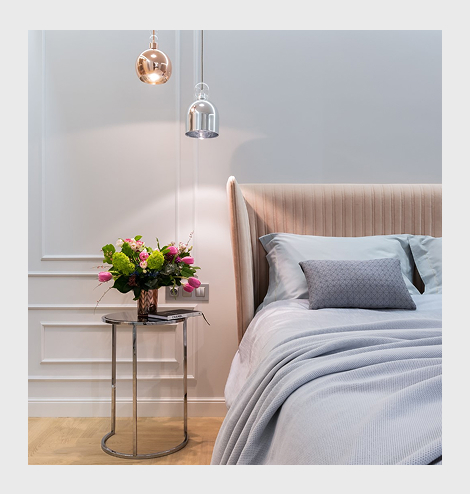
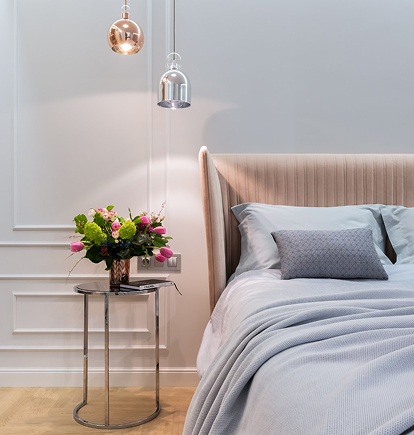
refactor(ProjectGrid): Enhance project grid layout and content presentation
- Update ProjectGrid component to conditionally render title section
- Modify ProjectGridItem to remove mdc-unwrap from description slot
- Update content/index.md with improved project grid item formatting
- Add bold text and line breaks to project descriptions
- Adjust aspect ratios for project grid items
- Replace project grid images with updated visuals

diff --git a/components/ProjectGrid.vue b/components/ProjectGrid.vue
@@ -9,9 +9,8 @@ defineProps<{
     <div class="content-grid">
       <div class="breakout1">
         <!-- Title and Subtitle -->
-        <div class="text-center mb-16">
+        <div v-if="$slots.title" class="text-center mb-16">
           <h2
-            v-if="$slots.title"
             class="h2-style font-semibold text-primary mb-4"
             data-scroll-item
             data-scroll-animation="fadeUp"

diff --git a/components/ProjectGridItem.vue b/components/ProjectGridItem.vue
@@ -30,7 +30,7 @@
         <slot name="title" mdc-unwrap="p" />
       </h3>
       <div class="text-neutral-700">
-        <slot name="description" mdc-unwrap="p" />
+        <slot name="description" />
       </div>
 
       <!-- Mobile-only button -->

diff --git a/content/index.md b/content/index.md
@@ -439,17 +439,12 @@ Oferujemy profesjonalne projektowanie wnętrz oraz kompleksowe remonty pod klucz
 ---
 cta-link: /buttons
 ---
-#title
-Od Koncepcji do Realizacji
-
-#subtitle
-Funkcjonalne i wykonawcze projekty, które zamieniają wizje w rzeczywistość
 
 #projects
   :::project-grid-item
   ---
   to: /buttons
-  aspectRatio: 1.15
+  aspectRatio: 0.95
   ---
   #image
     ::::parallax-img{.w-full.h-full.object-cover}
@@ -460,17 +455,19 @@ Funkcjonalne i wykonawcze projekty, które zamieniają wizje w rzeczywistość
   Projekty i Wizualizacje
   
   #description
-  Profesjonalna prezentacja nieruchomości – przyciąga więcej potencjalnych klientów, zwiększając wartość i atrakcyjność oferty.
+  **Profesjonalna prezentacja nieruchomości** – przyciąga więcej potencjalnych klientów, zwiększając wartość i atrakcyjność oferty.
+  :br
 
-  Dopasowanie wnętrza do oczekiwań rynku – projektowanie zgodne z aktualnymi trendami zwiększa szanse na szybszą sprzedaż lub wynajem.
+  **Dopasowanie wnętrza do oczekiwań rynku** – projektowanie zgodne z aktualnymi trendami zwiększa szanse na szybszą sprzedaż lub wynajem.
+  :br
 
-  Lepsza promocja inwestycji – realistyczne wizualizacje pomagają wyróżnić się na tle konkurencji i podnieść prestiż nieruchomości.
+  **Lepsza promocja inwestycji** – realistyczne wizualizacje pomagają wyróżnić się na tle konkurencji i podnieść prestiż nieruchomości.
   :::
 
   :::project-grid-item
   ---
   to: /buttons
-  aspectRatio: 1.15
+  aspectRatio: 0.95
   ---
   #image
     ::::parallax-img{.w-full.h-full.object-cover}
@@ -481,17 +478,17 @@ Funkcjonalne i wykonawcze projekty, które zamieniają wizje w rzeczywistość
   Projekty i Wizualizacje
   
   #description
-  Oszczędność czasu i stresu – pełna obsługa od projektu do realizacji, bez potrzeby angażowania się w prace remontowe.
-
-Zwiększenie wartości nieruchomości – kompleksowe remonty podnoszą standard wnętrza, co pozwala uzyskać wyższą cenę przy sprzedaży lub wynajmie.
-
-Przyciągnięcie wymagających klientów – gotowe do użytku wnętrza są bardziej atrakcyjne dla inwestorów i najemców poszukujących komfortu.
+  **Oszczędność czasu i stresu** – pełna obsługa od projektu do realizacji, bez potrzeby angażowania się w prace remontowe.
+:br
+**Zwiększenie wartości nieruchomości** – kompleksowe remonty podnoszą standard wnętrza, co pozwala uzyskać wyższą cenę przy sprzedaży lub wynajmie.
+:br
+**Przyciągnięcie wymagających klientów** – gotowe do użytku wnętrza są bardziej atrakcyjne dla inwestorów i najemców poszukujących komfortu.
   :::
 
   :::project-grid-item
   ---
   to: /buttons
-  aspectRatio: 1.15
+  aspectRatio: 0.95
   ---
   #image
     ::::parallax-img{.w-full.h-full.object-cover}
@@ -502,11 +499,11 @@ Przyciągnięcie wymagających klientów – gotowe do użytku wnętrza są bard
 Home Staging
   
   #description
-  Szybsza sprzedaż lub wynajem – profesjonalnie zaaranżowane wnętrze wzbudza większe zainteresowanie i skraca czas na rynku.
-
-Maksymalizacja zysku – niewielka inwestycja w odświeżenie wnętrza zwiększa jego wartość i pozwala uzyskać wyższą cenę.
-
-Lepsze pierwsze wrażenie – odpowiednio zaaranżowana przestrzeń buduje pozytywne emocje i pomaga przekonać klientów do oferty.
+  **Szybsza sprzedaż lub wynajem** – profesjonalnie zaaranżowane wnętrze wzbudza większe zainteresowanie i skraca czas na rynku.
+:br
+**Maksymalizacja zysku** – niewielka inwestycja w odświeżenie wnętrza zwiększa jego wartość i pozwala uzyskać wyższą cenę.
+:br
+**Lepsze pierwsze wrażenie** – odpowiednio zaaranżowana przestrzeń buduje pozytywne emocje i pomaga przekonać klientów do oferty.
   :::
 
 #cta
